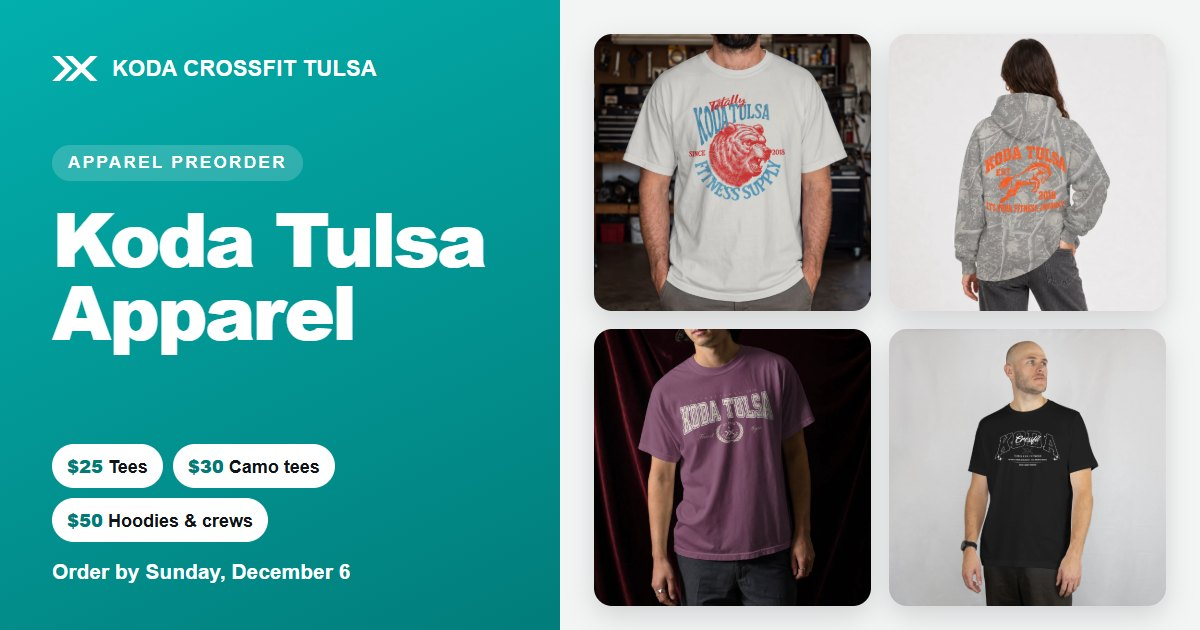
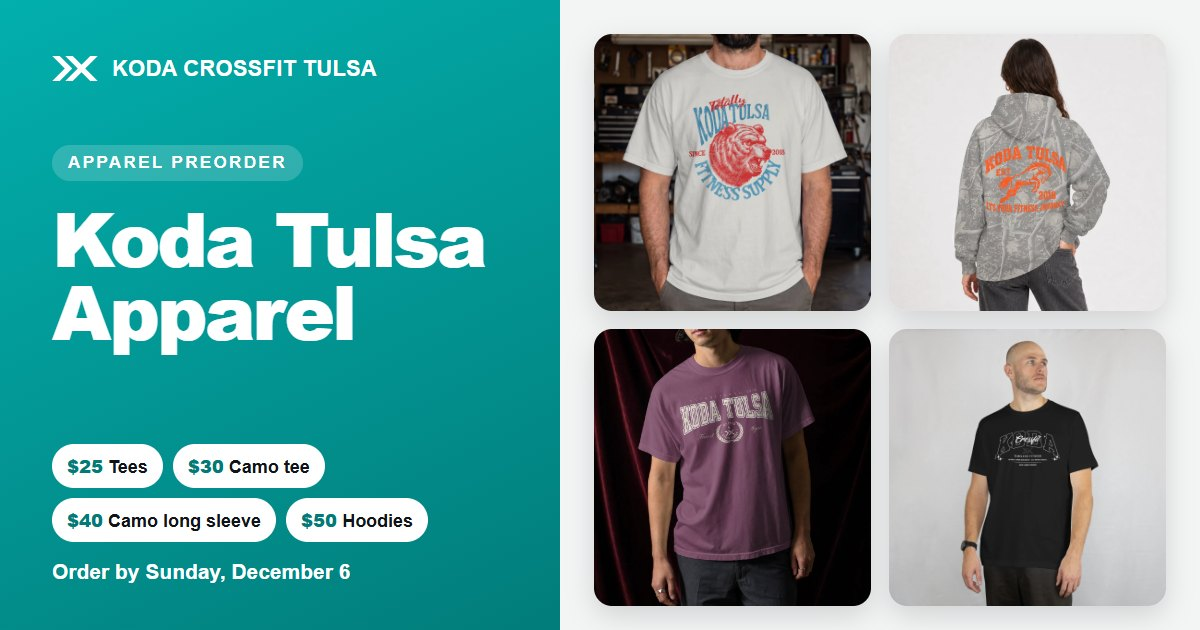
Camo crewneck becomes the $40 Koda Bronco Camo Long Sleeve
Page label, item name and price; backend catalog (v3); hero price pills,
share text and link-preview image; cart refreshes saved item names.

Changed region(s): [[0.0617, 0.6937, 0.37, 0.8746]]

diff --git a/index.html b/index.html
@@ -4,7 +4,7 @@
 <meta charset="utf-8">
 <meta name="viewport" content="width=device-width, initial-scale=1, viewport-fit=cover">
 <title>Koda Tulsa Apparel Preorder</title>
-<meta name="description" content="Preorder new Koda CrossFit Tulsa apparel: Koda Grizz, Koda Bronco, Koda United Kingdom and Koda University. Tees $25, camo tees $30, hoodies and crewnecks $50. Orders close Sunday, December 6.">
+<meta name="description" content="Preorder new Koda CrossFit Tulsa apparel: Koda Grizz, Koda Bronco, Koda United Kingdom and Koda University. Tees $25, camo tee $30, camo long sleeve $40, hoodies $50. Orders close Sunday, December 6.">
 <meta name="theme-color" content="#02afad">
 <link rel="icon" href="assets/favicon.svg" type="image/svg+xml">
 <link rel="icon" href="assets/favicon-32.png" sizes="32x32" type="image/png">
@@ -12,9 +12,9 @@
 <meta property="og:type" content="website">
 <meta property="og:site_name" content="Koda CrossFit Tulsa">
 <meta property="og:title" content="Koda Tulsa Apparel Preorder">
-<meta property="og:description" content="Four new designs. Tees $25, camo tees $30, hoodies and crewnecks $50. Order by Sunday, December 6.">
+<meta property="og:description" content="Four new designs. Tees $25, camo tee $30, camo long sleeve $40, hoodies $50. Order by Sunday, December 6.">
 <meta property="og:url" content="https://koda-crossfit.github.io/tulsa-apparel/">
-<meta property="og:image" content="https://koda-crossfit.github.io/tulsa-apparel/assets/og-image.jpg">
+<meta property="og:image" content="https://koda-crossfit.github.io/tulsa-apparel/assets/og-image.jpg?v=2">
 <meta property="og:image:width" content="1200">
 <meta property="og:image:height" content="630">
 <meta name="twitter:card" content="summary_large_image">
@@ -324,8 +324,9 @@
       <p class="lede" id="heroLede">Four new designs for the Koda Tulsa crew. Order by <strong>Sunday, December 6 at 11:59 PM</strong>. Everything is ordered once the preorder closes, and you pick yours up at the gym.</p>
       <ul class="prices" aria-label="Prices">
         <li><b>$25</b> Tees</li>
-        <li><b>$30</b> Camo tees</li>
-        <li><b>$50</b> Hoodies &amp; crewnecks</li>
+        <li><b>$30</b> Camo tee</li>
+        <li><b>$40</b> Camo long sleeve</li>
+        <li><b>$50</b> Hoodies</li>
       </ul>
       <div class="hero-cta">
         <a class="btn btn-light" href="#shop">Shop the collection</a>
@@ -488,7 +489,8 @@
       styles: [
         { sku: 'bronco-tee', label: 'Camo Tee', item: 'Koda Bronco Camo Tee', brand: 'Independent', price: 30, sizes: SIZES,
           colors: [{ name: 'Deadwood Camo', hex: '#9b9a8e', views: [{ label: 'Back', src: 'bronco-tee-back.webp' }, { label: 'Front', src: 'bronco-tee-front.webp' }] }] },
-        { sku: 'bronco-crew', label: 'Crewneck', item: 'Koda Bronco Camo Crewneck', brand: 'Independent', price: 50, sizes: SIZES,
+        // The sku stays 'bronco-crew' (it started as a crewneck) so orders saved in someone's browser still work.
+        { sku: 'bronco-crew', label: 'Long Sleeve', item: 'Koda Bronco Camo Long Sleeve', brand: 'Independent', price: 40, sizes: SIZES,
           colors: [{ name: 'Deadwood Camo', hex: '#9b9a8e', views: [{ label: 'Back', src: 'bronco-crewneck-back.webp' }, { label: 'Front', src: 'bronco-crewneck-front.webp' }] }] },
         { sku: 'bronco-hoodie', label: 'Hoodie', item: 'Koda Bronco Camo Hoodie', brand: 'Independent', price: 50, sizes: SIZES,
           colors: [{ name: 'Deadwood Camo', hex: '#9b9a8e', views: [{ label: 'Back', src: 'bronco-hoodie-back.webp' }, { label: 'Front', src: 'bronco-hoodie-front.webp' }] }] }
@@ -714,8 +716,8 @@
     }
     return null;
   }
-  // Prices always come from this page's catalog, never from what was saved in the browser.
-  cart.forEach(function (i) { i.price = skuInfo(i.sku).price; });
+  // Prices and names always come from this page's catalog, never from what was saved in the browser.
+  cart.forEach(function (i) { var s = skuInfo(i.sku); i.price = s.price; i.item = s.item; });
 
   function cartCount() { return cart.reduce(function (t, i) { return t + i.qty; }, 0); }
   function cartTotal() { return cart.reduce(function (t, i) { return t + i.qty * i.price; }, 0); }

diff --git a/apps-script/Code.js b/apps-script/Code.js
@@ -32,7 +32,8 @@ const CC_SIZES = ['S', 'M', 'L', 'XL', '2XL', '3XL'];
 const CATALOG = {
   'grizz-tee': { item: 'Koda Grizz Tee', brand: 'Bella+Canvas', price: 25, colors: ['Vintage White'], sizes: SIZES },
   'bronco-tee': { item: 'Koda Bronco Camo Tee', brand: 'Independent', price: 30, colors: ['Deadwood Camo'], sizes: SIZES },
-  'bronco-crew': { item: 'Koda Bronco Camo Crewneck', brand: 'Independent', price: 50, colors: ['Deadwood Camo'], sizes: SIZES },
+  // Was the $50 crewneck until 11/10/2026; the sku stays the same so saved carts keep working.
+  'bronco-crew': { item: 'Koda Bronco Camo Long Sleeve', brand: 'Independent', price: 40, colors: ['Deadwood Camo'], sizes: SIZES },
   'bronco-hoodie': { item: 'Koda Bronco Camo Hoodie', brand: 'Independent', price: 50, colors: ['Deadwood Camo'], sizes: SIZES },
   'uk-tee': { item: 'Koda United Kingdom Tee', brand: 'Bella+Canvas', price: 25, colors: ['Black'], sizes: SIZES },
   'uk-hoodie': { item: 'Koda United Kingdom Hoodie', brand: 'Independent', price: 50, colors: ['Black'], sizes: SIZES },
@@ -636,6 +637,32 @@ function admin_(req) {
       if (!/^[^\s@]+@[^\s@]+\.[^\s@]+$/.test(email)) return { ok: false, code: 'bad_request' };
       ss.addEditor(email);
       return { ok: true, editors: ss.getEditors().map((u) => u.getEmail()) };
+    }
+    case 'adminCatalog':
+      return { ok: true, catalog: CATALOG };
+    case 'adminRenameItem': {
+      // Renames an item on Totals (column A) and on Order Lines (column D), e.g. after a catalog name change.
+      const from = clean_(req.from, 80);
+      const to = clean_(req.to, 80);
+      if (!from || !to) return { ok: false, code: 'bad_request' };
+      const renamed = {};
+      [[TABS.totals, 1], [TABS.lines, 4]].forEach((t) => {
+        const sh = ss.getSheetByName(t[0]);
+        let n = 0;
+        if (sh && sh.getLastRow() >= 1) {
+          const rng = sh.getRange(1, t[1], sh.getLastRow(), 1);
+          const vals = rng.getValues();
+          vals.forEach((r) => {
+            if (String(r[0]).trim() === from) {
+              r[0] = to;
+              n++;
+            }
+          });
+          if (n) rng.setValues(vals);
+        }
+        renamed[t[0]] = n;
+      });
+      return { ok: true, renamed: renamed };
     }
     case 'adminEditors':
       return { ok: true, editors: ss.getEditors().map((u) => u.getEmail()), viewers: ss.getViewers().map((u) => u.getEmail()) };

diff --git a/tools/test-ui.js b/tools/test-ui.js
@@ -108,8 +108,9 @@ const server = http.createServer((req, res) => {
 
     await click(page, card('bronco') + ' [data-act="style"][data-val="0"]');
     check((await text(page, card('bronco') + ' [data-act="add"]')).includes('$30'), 'Bronco camo tee shows $30');
+    check((await text(page, card('bronco') + ' [data-act="style"][data-val="1"]')).replace(/\s+/g, ' ') === 'Long Sleeve $40', 'Bronco style button reads "Long Sleeve $40"');
     await click(page, card('bronco') + ' [data-act="style"][data-val="1"]');
-    check((await text(page, card('bronco') + ' [data-act="add"]')).includes('$50'), 'Bronco crewneck shows $50');
+    check((await text(page, card('bronco') + ' [data-act="add"]')).includes('$40'), 'Bronco long sleeve shows $40');
 
     check((await page.$$(card('university') + ' [data-act="size"][data-val="XS"]')).length === 0, 'University tee has no XS');
     await click(page, card('university') + ' [data-act="color"][data-val="1"]');

diff --git a/tools/make-assets.js b/tools/make-assets.js
@@ -36,7 +36,7 @@ const og = `<!doctype html><html><head><meta charset="utf-8">
     <div class="brand"><svg viewBox="0 0 1961 1078">${MARK}</svg>KODA CROSSFIT TULSA</div>
     <div class="tag">Apparel preorder</div>
     <h1>Koda Tulsa<br>Apparel</h1>
-    <div class="prices"><span><b>$25</b> Tees</span><span><b>$30</b> Camo tees</span><span><b>$50</b> Hoodies &amp; crews</span></div>
+    <div class="prices"><span><b>$25</b> Tees</span><span><b>$30</b> Camo tee</span><span><b>$40</b> Camo long sleeve</span><span><b>$50</b> Hoodies</span></div>
     <div class="when">Order by Sunday, December 6</div>
   </div>
   <div class="right">

diff --git a/README.md b/README.md
@@ -2,13 +2,13 @@
 
 The preorder store for Koda CrossFit Tulsa: https://koda-crossfit.github.io/tulsa-apparel/
 
-Four designs, seven garments. Tees are $25, the camo tee is $30, and every hoodie and crewneck is $50. People pay by having it billed to their PushPress account or by Venmo to @Senorespy. The store takes orders until **Sunday, December 6, 2026 at 11:59 PM Central**, and everything is picked up at the gym.
+Four designs, seven garments. Tees are $25, the camo tee is $30, the camo long sleeve is $40, and the hoodies are $50. People pay by having it billed to their PushPress account or by Venmo to @Senorespy. The store takes orders until **Sunday, December 6, 2026 at 11:59 PM Central**, and everything is picked up at the gym.
 
 | Design | Garment | Brand | Color | Sizes | Price |
 |---|---|---|---|---|---|
 | Koda Grizz | Tee | Bella+Canvas | Vintage White | XS–3XL | $25 |
 | Koda Bronco | Camo Tee | Independent | Deadwood Camo | XS–3XL | $30 |
-| Koda Bronco | Camo Crewneck | Independent | Deadwood Camo | XS–3XL | $50 |
+| Koda Bronco | Camo Long Sleeve | Independent | Deadwood Camo | XS–3XL | $40 |
 | Koda Bronco | Camo Hoodie | Independent | Deadwood Camo | XS–3XL | $50 |
 | Koda United Kingdom | Tee | Bella+Canvas | Black | XS–3XL | $25 |
 | Koda United Kingdom | Hoodie | Independent | Black | XS–3XL | $50 |
